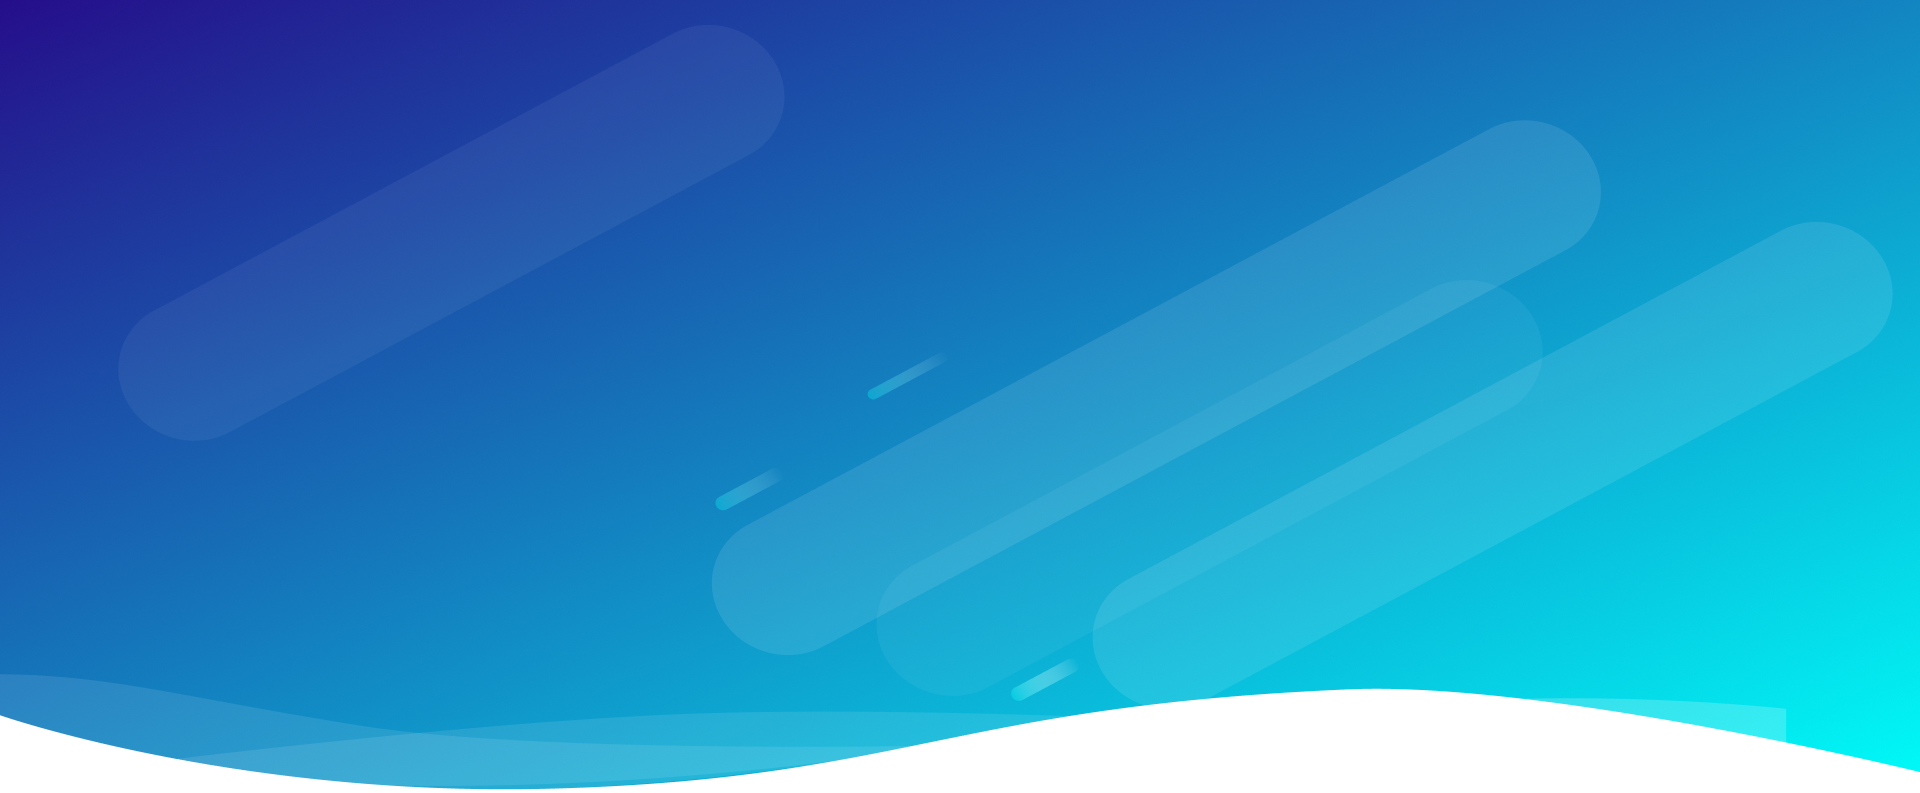
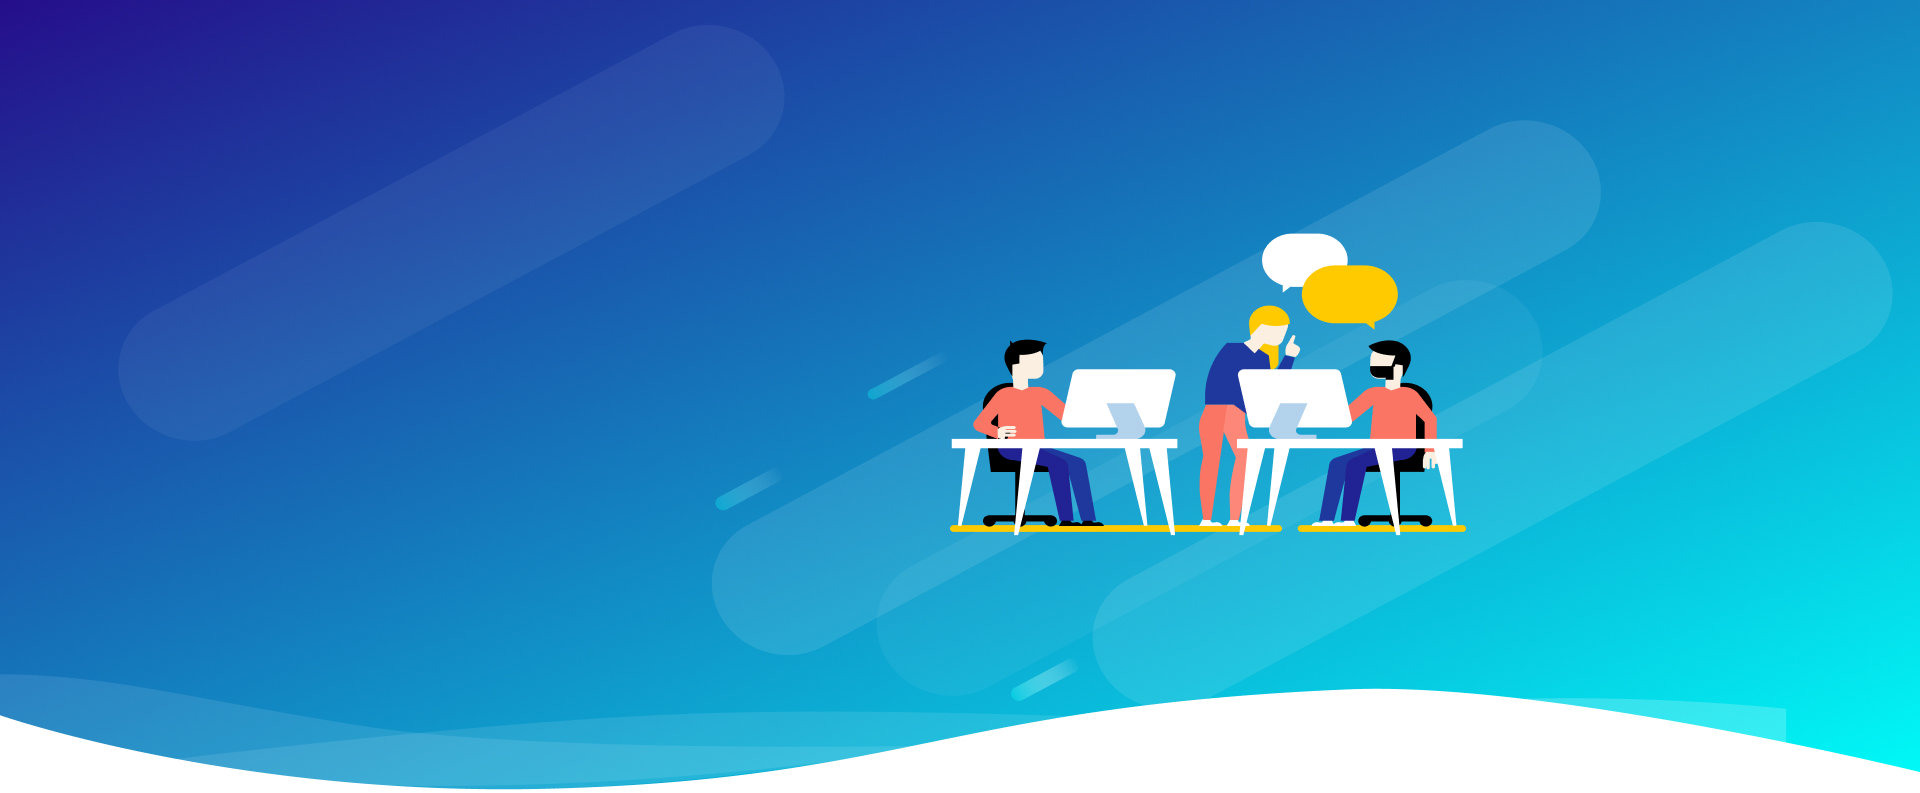
img

Changed region(s): [[0.5, 0.2724, 0.7812, 0.6961]]

diff --git a/ot0do1/martaUp/index.html b/ot0do1/martaUp/index.html
@@ -18,10 +18,19 @@
           </div>
           <nav class="menu">
             <ul>
-              
+              <li>
+                <a href="#">Home</a>
+              </li>
+              <li>
+                <a href="#">Work</a>
+              </li>
+              <li>
+                <a href="#">About</a>
+              </li>
+              <li>
+                <a href="#">Contact</a>
+              </li>
             </ul>
-
-            Home Work About Contact
           </nav>
           <div class="header-btn">
             Login Sign Up
